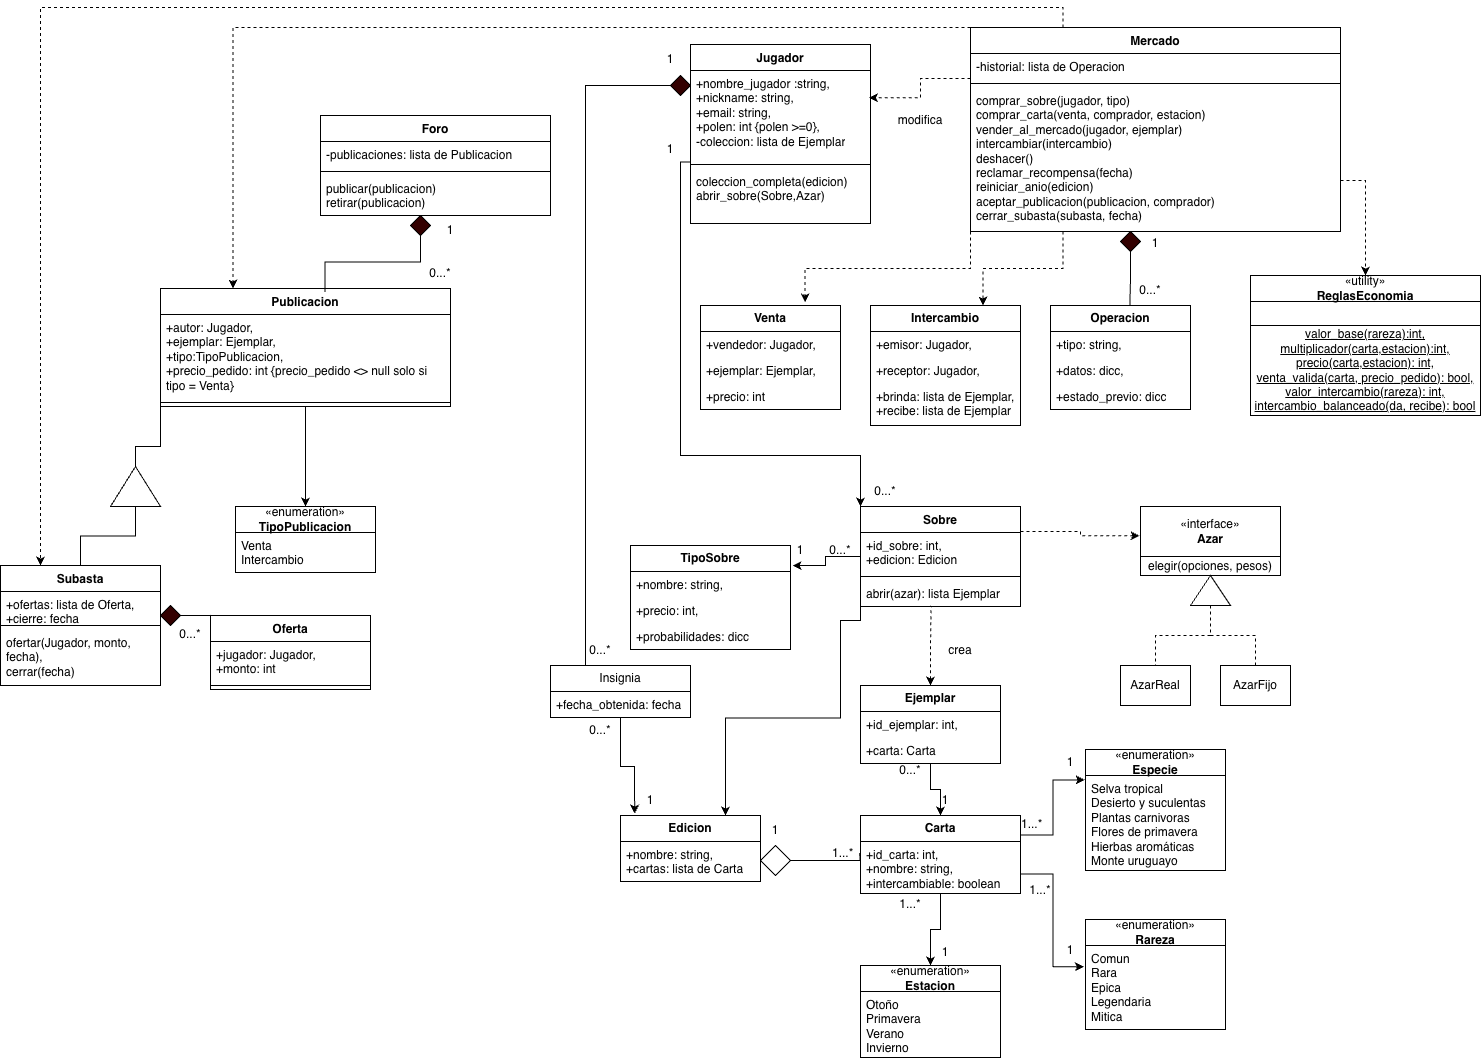
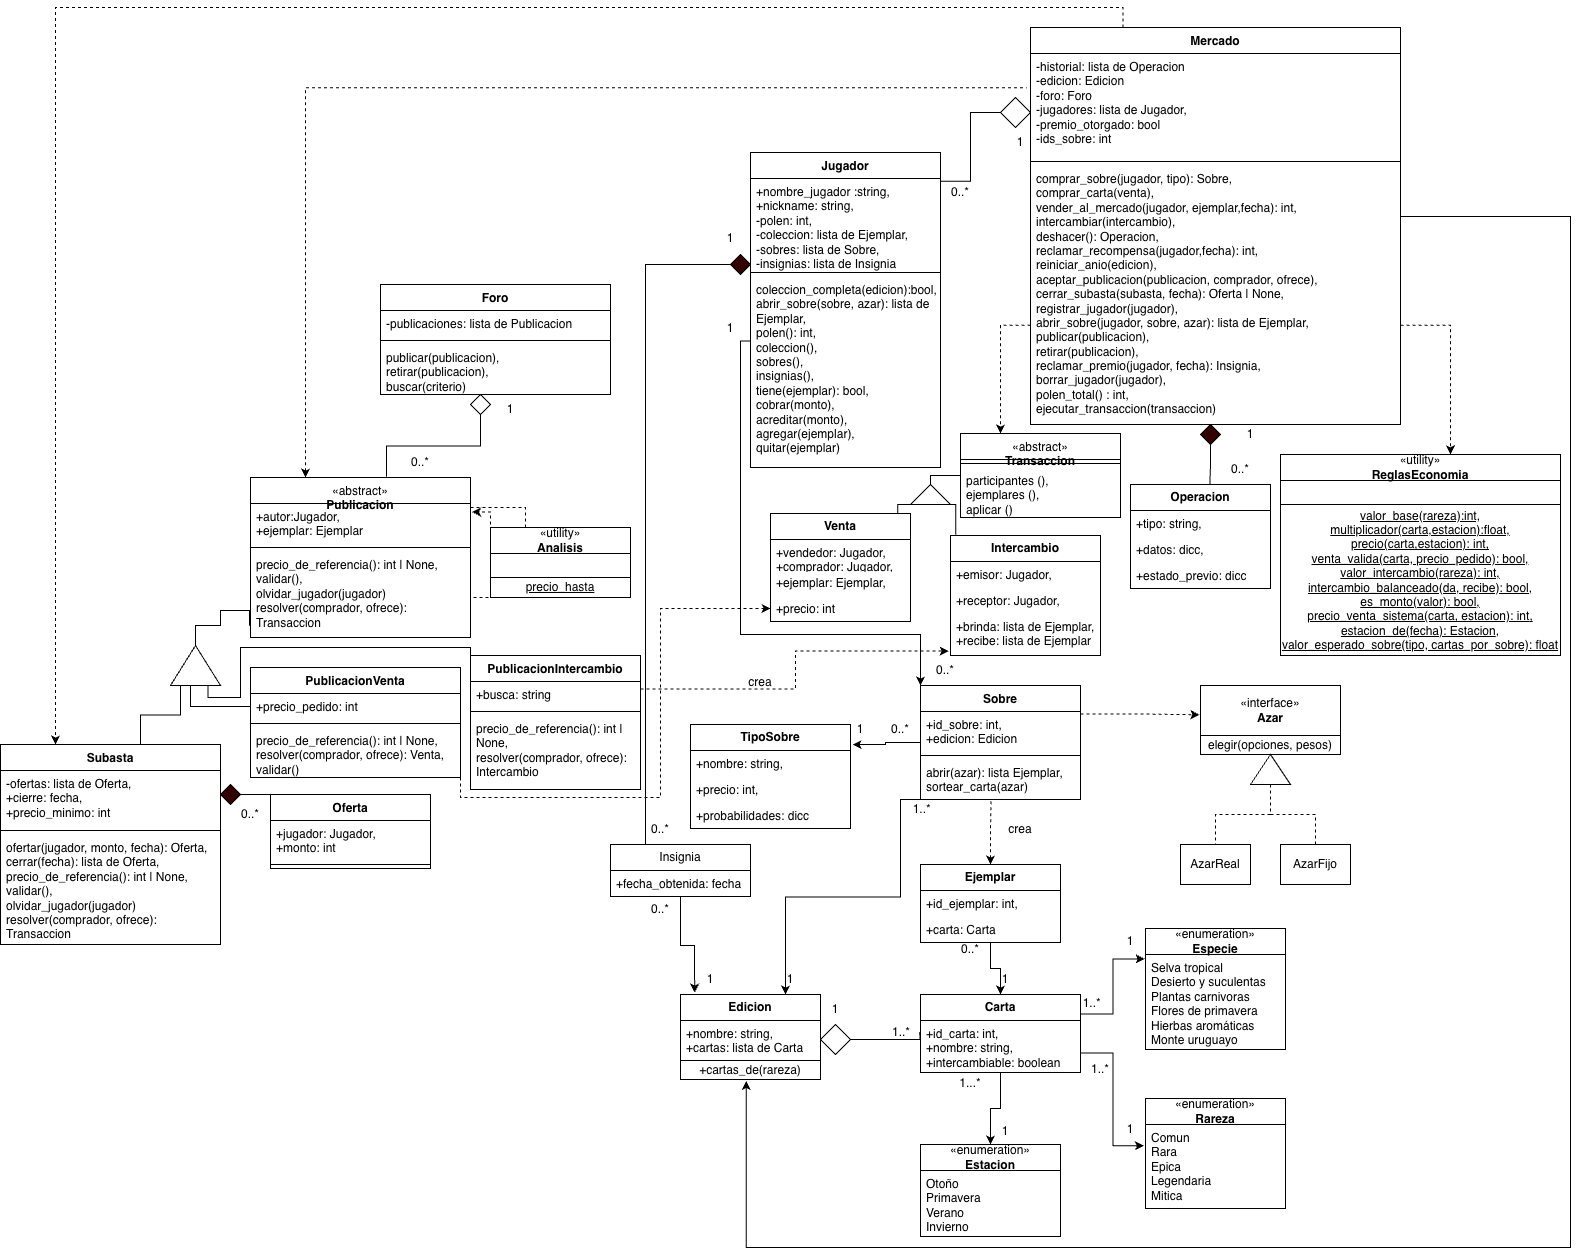
UML

diff --git a/docs/DISEÑO.md b/docs/DISEÑO.md
@@ -51,7 +51,7 @@ Los jugadores pueden vender sus cartas a otros jugadores o al mercado del sistem
 Cuando se vende una carta al mercado del sistema, el jugador recibe el 40% de su valor base, teniendo en cuenta el multiplicador de la estación correspondiente. La carta se elimina de su colección y vuelve a estar disponible para otros jugadores mediante los mecanismos de obtención que correspondan.  
 Los precios de las cartas se calculan a partir de su rareza y de un precio base establecido para cada una. Las cartas de mayor rareza tienen un valor más alto.
 
-En las ventas entre jugadores, el precio puede ser superior o inferior al valor base. El valor base funciona como referencia para los jugadores, pero el precio final depende de lo que acuerden ambas partes.
+En las ventas entre jugadores, el precio puede ser mayor o igual al valor base. El valor base funciona como referencia para los jugadores, pero el precio final depende de lo que acuerden ambas partes.
 
 Para intercambiar cartas, cada una tiene un valor según su rareza. Por ejemplo, si una carta A tiene un valor de 3 y una carta B tiene un valor de 1, el jugador que ofrece la carta A puede solicitar la carta B y otras dos cartas de valor 1 para completar el intercambio.
 
@@ -193,7 +193,7 @@ A su vez, hay un par de cosas que desaparecieron. valor:string, cantidad_cartas,
 El UML muestra la estructura: clases, atributos, relaciones y los métodos que definen el comportamiento de cada clase. Quedaron afuera los detalles de implementación y las funciones puras de módulo. Esta sección los explica para poder comparar el diagrama con el código.
 
 ### Convenciones de notación
-- Los atributos llevan visibilidad (`-` privado, `+` público) y los métodos no. En el código los métodos con guion bajo son de uso interno por convención. En el UML aparecen sin signo `hacer_venta`, `hacer_intercambio`, `sortear_carta`, `olvidar_jugador` y, en `Jugador`, `cobrar`, `acreditar`, `agregar` y `quitar`, que solo usa `Mercado`.
+- Los atributos llevan visibilidad (`-` privado, `+` público) y los métodos no. En el código los métodos con guion bajo son de uso interno por convención. En el UML aparecen sin signo `ejecutar_transaccion`, `sortear_carta`, `olvidar_jugador` y, en `Jugador`, `cobrar`, `acreditar`, `agregar` y `quitar`, que solo usa `Mercado`.
 - Tipos: `lista de X` es `list`, `dicc` es `dict`, `fecha` es `datetime.date` e `int | None` es `Optional[int]`.
 - `Azar` se dibuja como «interface», pero en Python es una clase abstracta (`ABC`).
 - `ReglasEconomia` y `Analisis` se dibujan como clases «utility» porque UML no tiene funciones sueltas. En el código son los módulos `reglas.py` y `analisis.py`: funciones puras, sin estado y sin clase.
@@ -204,7 +204,7 @@ Quedó sin dibujar `-ejecutar(tipo, datos, accion)`, junto con `-verificar`, `-c
 - Si la acción lanza `TypeError`, `AttributeError` o `ValueError`, se convierte en `ErrorMercado`, con el error original encadenado.
 - Si sale bien, agrega `Operacion(tipo, datos, estado_previo)` al historial. `datos` es una función que se evalúa recién cuando la operación salió bien, así armar el registro nunca falla por una entrada inválida.
 - `deshacer()` saca la última operación del historial y restaura su `estado_previo`.
-- Solo `Mercado` mueve polen.
+- Al polen lo mueven las transacciones pero siempre dentro de una operación que ejecuta `Mercado`.
 
 ### Métodos y atributos que no se dibujaron
 - Getters que devuelven tuplas, para leer sin poder modificar: `Mercado.historial()`, `edicion()`, `foro()` y `jugadores()`; `Foro.publicaciones()`; `Subasta.ofertas()`.
@@ -258,5 +258,58 @@ El UML muestra solo `precio_hasta`. Las otras 13, agrupadas:
 
 ### ErrorMercado
 Excepción única del dominio (hereda de `Exception`). Se lanza ante cualquier operación inválida y, cuando se lanza, el sistema queda como estaba. No se dibuja porque casi todas las clases la usan y llenaría el diagrama de flechas.
+
+# Cambio de requisito y refactor
+El profesor pidió dos cambios de diseño sobre el núcleo (`Cambio.md`):
+1. Que cada publicación diga su precio por polimorfismo, sin `getattr`.
+2. Que `resolver` devuelva la operación en vez de ejecutarla.
+
+## Cambio 1: cada publicación dice su precio
+**Antes.** `analisis.precio_hasta` usaba `getattr(pub, "precio_pedido", None)` para saber si una publicación tenía precio. Eso es preguntar "¿de qué tipo sos?" por la puerta de atrás. Además, las subastas nunca aparecían en una búsqueda por precio, aunque tienen `precio_minimo`.
+
+**Ahora.** `Publicacion` tiene el método abstracto `precio_de_referencia(): int | None` y cada subclase responde a su manera:
+
+| Clase | Devuelve |
+|---|---|
+| `PublicacionVenta` | `precio_pedido` |
+| `Subasta` | `precio_minimo` |
+| `PublicacionIntercambio` | `None` (un intercambio no tiene precio) |
+
+`precio_hasta` llama a `pub.precio_de_referencia()` y ya no pregunta el tipo. Si aparece un tipo de publicación nuevo, no hay que tocar `precio_hasta`.
+
+**Alternativas descartadas.** Mantener `getattr` o usar `isinstance` dentro de `precio_hasta`: las dos siguen preguntando el tipo y obligan a modificar la función por cada tipo nuevo. [confirmar]
+
+**Test.** `test_r15_la_busqueda_por_precio_incluye_subastas`: con una venta barata, una subasta, un intercambio y una venta cara, `precio_hasta(20)` devuelve la venta barata y la subasta.
+
+## Cambio 2: `resolver` devuelve la operación
+**Antes.** `PublicacionVenta.resolver` y `PublicacionIntercambio.resolver` llamaban a `mercado._hacer_venta` y `mercado._hacer_intercambio`, métodos con guion bajo de otra clase. Por eso `foro.py` tenía que importar `Mercado` solo para las anotaciones, para evitar un import circular.
+
+**Ahora.**
+- `resolver(comprador, ofrece)` solo describe la operación: devuelve una `Venta` o un `Intercambio` y no modifica nada.
+- `Mercado.aceptar_publicacion` ejecuta lo que devuelve con `_ejecutar_transaccion`. Todo sigue dentro de `_ejecutar`, así que la atomicidad y el historial no cambian.
+- Para que `Mercado` ejecute cualquier operación sin preguntar su tipo, se agregó la clase abstracta `Transaccion` (`participantes()`, `ejemplares()`, `aplicar()`). `Venta` e `Intercambio` la implementan y se llevaron las reglas que antes estaban en `Mercado`.
+- `Venta` ahora lleva al `comprador`, así que `Mercado.comprar_carta` recibe solo la venta.
+- `_ejecutar_transaccion` verifica que los participantes estén registrados (lo único que sabe `Mercado`), aplica la transacción y retira del foro los ejemplares que cambiaron de dueño.
+
+**Resultado.**
+- `foro.py` ya no importa a `Mercado` y desapareció el import circular.
+- La dependencia va en un solo sentido: `Mercado` usa `Foro`, `Publicacion` y `Transaccion`.
+- `resolver` se prueba sin armar un `Mercado`.
+
+**Alternativas descartadas.**
+- Dejar que `resolver` llame al mercado: obliga a una dependencia circular y a usar métodos ajenos.
+- Que `Mercado` decida con `if`/`isinstance` cómo ejecutar lo que devuelve `resolver`: vuelve a preguntar el tipo. Por eso existe `Transaccion.aplicar`. 
+
+**Tests.**
+- `test_r15_resolver_venta_devuelve_la_operacion_sin_mercado` y `test_r15_resolver_intercambio_devuelve_la_operacion_sin_mercado`: comprueban que devuelven el dato correcto y que nadie cambió de dueño.
+- `test_r15_el_foro_no_depende_del_mercado`: comprueba que `foro.py` no importa `mercado.py`.
+
+## Decisiones abiertas 
+- `Subasta.resolver` lanza `ErrorMercado`, porque una subasta no se acepta, se cierra con `Mercado.cerrar_subasta`. Es una subclase que no cumple lo que promete `Publicacion`. Alternativa: sacar `resolver` de `Publicacion` y dejarlo solo en las publicaciones que se pueden aceptar.
+- `Venta.aplicar` e `Intercambio.aplicar` llaman a métodos con guion bajo de `Jugador` (`_cobrar`, `_quitar`...). En Python no hay privado real: el guion bajo marca uso interno del paquete `juego`.
+
+## Efecto en otras secciones
+- `REGLAS.md`: R3 ahora la protege `Venta.aplicar` y R15 incluye `precio_de_referencia` y `Transaccion.aplicar`.
+- Ya no existen `hacer_venta` y `hacer_intercambio` en `Mercado`.
 
 
